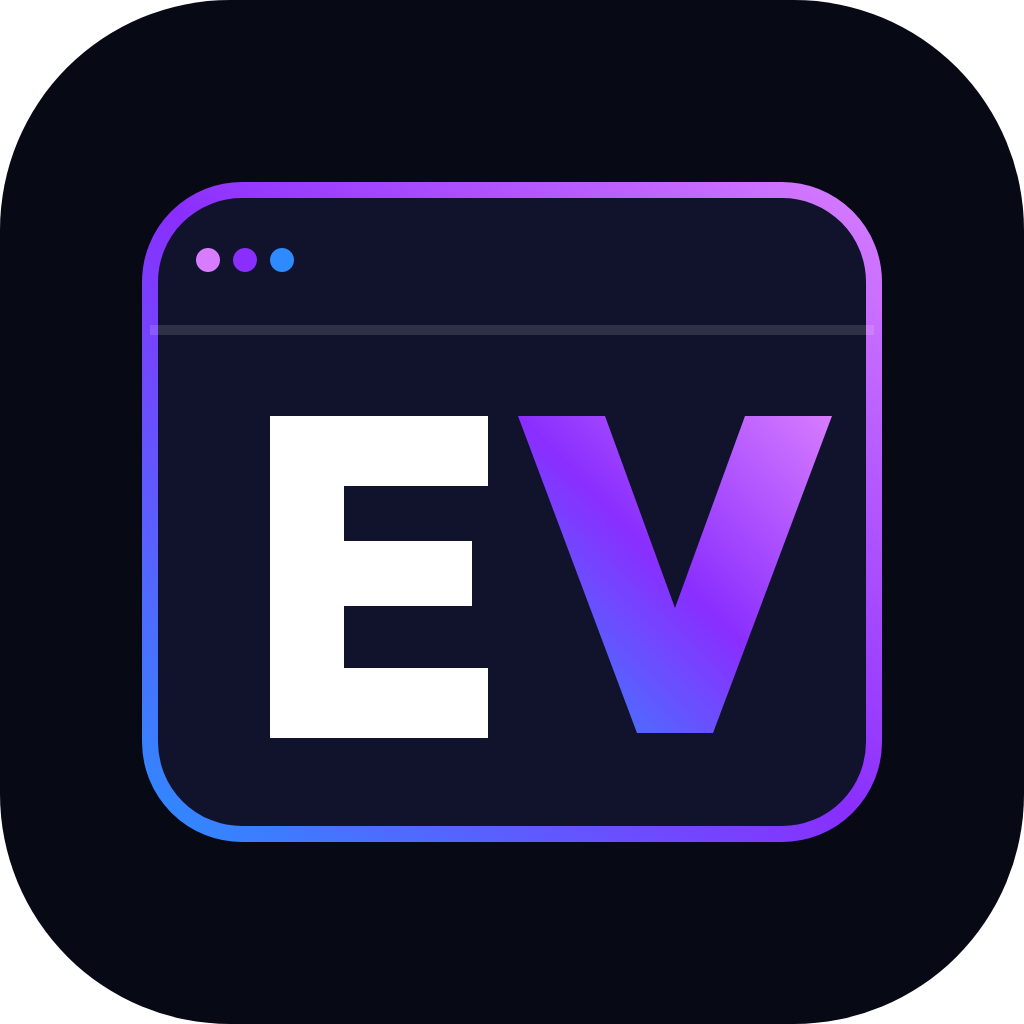
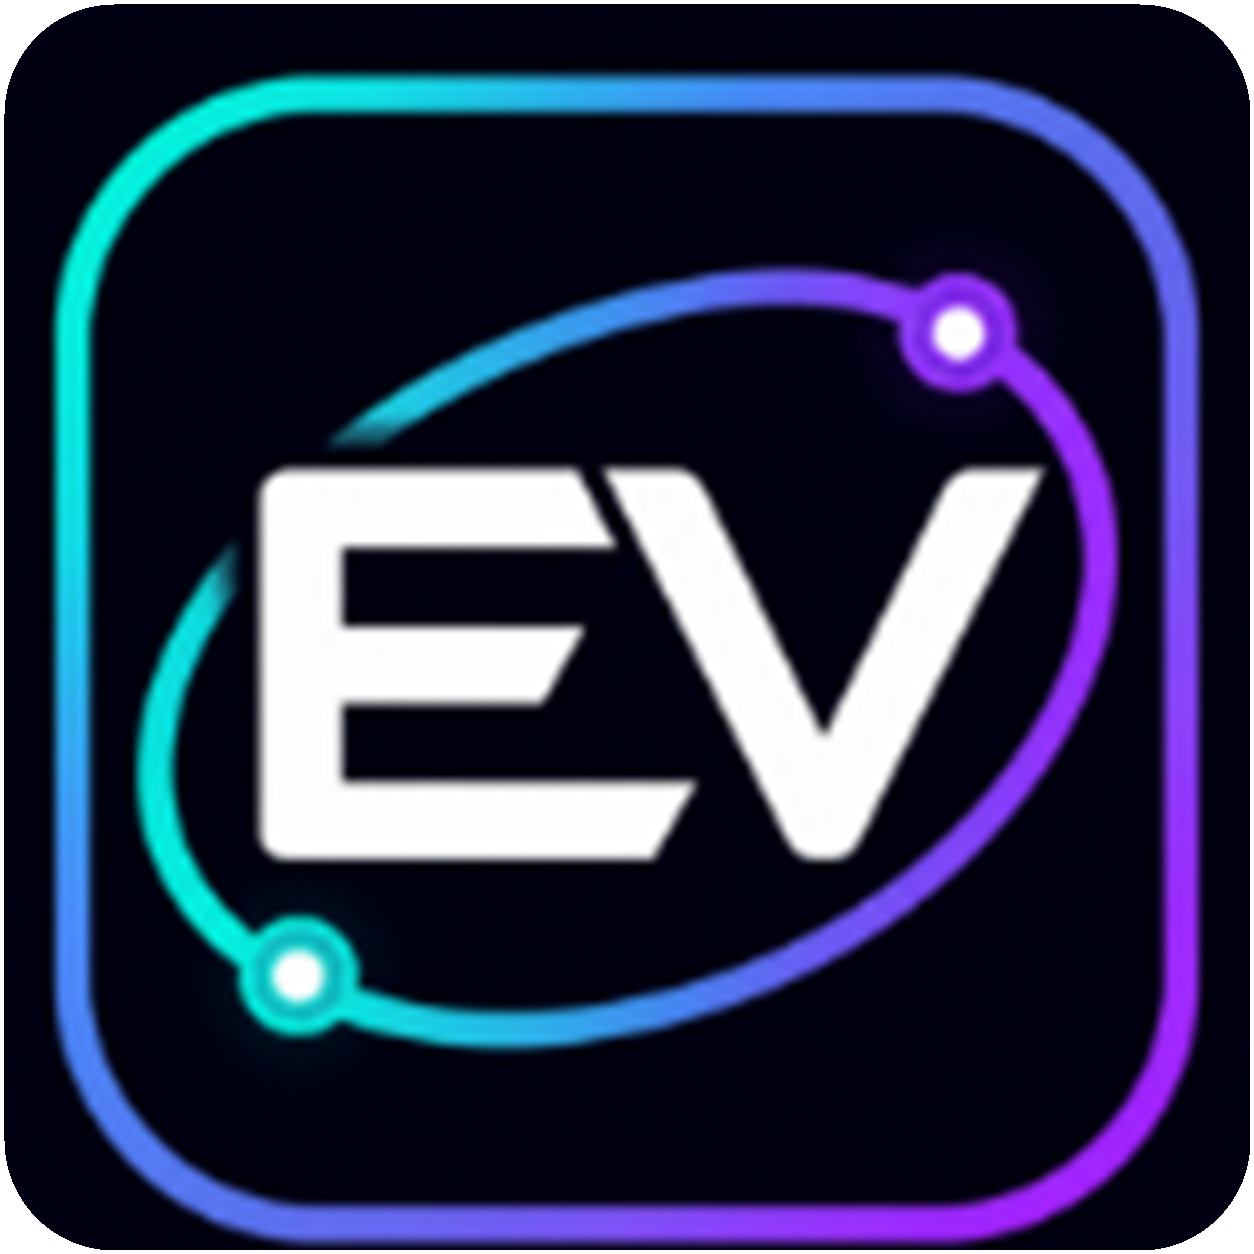
Rediseño móvil EVOLUM e icono final

diff --git a/mobile/App.tsx b/mobile/App.tsx
@@ -1372,10 +1372,26 @@ function EvolumApp() {
     return (
       <SafeAreaView style={styles.loginScreen}>
         <StatusBar style={themeMode === "nexo" ? "light" : "dark"} />
+        <KeyboardAvoidingView style={styles.loginKeyboard} behavior={Platform.OS === "ios" ? "padding" : undefined}>
+        <ScrollView contentContainerStyle={styles.loginLanding} keyboardShouldPersistTaps="handled" showsVerticalScrollIndicator={false}>
+          <View style={styles.loginBrandPanel}>
+            <View style={styles.loginBrandHeader}>
+              <Image source={evolumAppIcon} style={styles.loginBrandLogo} resizeMode="contain" />
+              <View><Text style={styles.loginBrandName}>EVOLUM OS</Text><Text style={styles.loginBrandSub}>El Sistema Operativo para Empresas</Text></View>
+            </View>
+            <Text style={styles.loginHeroEyebrow}>OPERACION EN UN SOLO LUGAR</Text>
+            <Text style={styles.loginHeroTitle}>Haz crecer tu empresa.{"\n"}Nosotros nos encargamos del resto.</Text>
+            <Text style={styles.loginHeroText}>Centraliza clientes, procesos, documentos, automatizaciones y decisiones para que tu equipo avance con claridad.</Text>
+            <View style={styles.loginBenefits}>
+              {["Todo conectado", "Decisiones con contexto", "IA que trabaja contigo"].map((benefit) => <View key={benefit} style={styles.loginBenefitRow}><View style={styles.loginBenefitIcon}><Text style={styles.loginBenefitIconText}>+</Text></View><Text style={styles.loginBenefitText}>{benefit}</Text></View>)}
+            </View>
+            <Text style={styles.loginSecurity}>● Plataforma segura y preparada para crecer contigo.</Text>
+          </View>
         <View style={styles.loginCard}>
           <View style={styles.logoLarge}><Image source={evolumAppIcon} style={styles.logoLargeImage} resizeMode="contain" /></View>
-          <Text style={styles.loginTitle}>EVOLUM</Text>
-          <Text style={styles.loginSubtitle}>App movil para operacion, inbox y super admin.</Text>
+          <Text style={styles.loginFormEyebrow}>ACCESO SEGURO</Text>
+          <Text style={styles.loginTitle}>Entrar a la plataforma</Text>
+          <Text style={styles.loginSubtitle}>Ingresa tus credenciales para continuar tu operacion.</Text>
           <View style={styles.loginVersionRow}>
             <Text style={styles.loginVersionLabel}>Versión instalada</Text>
             <Text style={styles.loginVersionValue}>v{currentAppVersion}</Text>
@@ -1409,6 +1425,8 @@ function EvolumApp() {
           <Text style={styles.apiHint}>{API_BASE_URL}</Text>
           {!!connectionStatus && <Text style={styles.connectionStatus}>{connectionStatus}</Text>}
         </View>
+        </ScrollView>
+        </KeyboardAvoidingView>
       </SafeAreaView>
     );
   }
@@ -1416,6 +1434,14 @@ function EvolumApp() {
   return (
     <SafeAreaView style={styles.appShell}>
       <StatusBar style={themeMode === "nexo" ? "light" : "dark"} />
+      <MobileTopbar
+        session={session}
+        profile={profile}
+        screen={screen}
+        unreadNotifications={unreadNotifications}
+        onOpenMenu={() => setMenuOpen(true)}
+        onOpenNotifications={() => setScreen("notifications")}
+      />
       <SideNav
         items={visibleNav}
         active={screen}
@@ -1429,20 +1455,6 @@ function EvolumApp() {
         setMenuOpen(false);
         if (next === "admin") loadAdminTenants();
       }} />
-      {screen === "inbox" && (
-        <View style={styles.inboxTopContact}>
-          <View style={styles.avatarTiny}><Text style={styles.avatarText}>{initials(selectedConversation?.contact.name || selectedConversation?.contact.externalId)}</Text></View>
-          <View style={{ flex: 1 }}>
-            <Text style={styles.topContactName}>{selectedConversation?.contact.name || selectedConversation?.contact.externalId || "Inbox"}</Text>
-            <Text style={styles.topContactSub}>{selectedConversation ? `${selectedConversation.contact.channel} / ${selectedConversation.status} / ${selectedConversation.mode}` : "Selecciona una conversacion"}</Text>
-          </View>
-          <NotificationBell count={unreadNotifications} compact onPress={() => setScreen("notifications")} />
-          <TouchableOpacity style={styles.chatsButtonCompact} onPress={() => setChatDrawerOpen(true)}>
-            <Text style={styles.chatsButtonText}>CHATS</Text>
-          </TouchableOpacity>
-        </View>
-      )}
-      {screen !== "inbox" && <NotificationBell count={unreadNotifications} onPress={() => setScreen("notifications")} />}
       <View style={styles.contentShell}>
         {(networkState === "offline" || pendingOfflineSync > 0) && (
           <View style={[styles.offlineBanner, networkState === "offline" && styles.offlineBannerDisconnected]}>
@@ -1455,7 +1467,7 @@ function EvolumApp() {
           </View>
         )}
         {screen === "dashboard" && (
-          <DashboardScreen dashboard={dashboard} realtyIntelligence={realtyIntelligence} profile={profile} refreshing={refreshing} onRefresh={refreshCurrent} />
+          <DashboardScreen dashboard={dashboard} realtyIntelligence={realtyIntelligence} profile={profile} refreshing={refreshing} onRefresh={refreshCurrent} onNavigate={setScreen} />
         )}
         {screen === "finance" && <FinanceScreen overview={financeOverview} refreshing={refreshing} onRefresh={refreshCurrent} />}
         {screen === "inbox" && (
@@ -1499,7 +1511,69 @@ function EvolumApp() {
         {screen === "settings" && <PermissionsAndAlertsScreen notificationPermission={notificationPermission} photoPermission={photoPermission} themeMode={themeMode} onThemeChange={changeTheme} onEnableNotifications={registerForPushNotifications} onEnablePhotos={requestPhotoLibraryAccess} onOpenImports={() => setScreen("realtyLoads")} onRefresh={refreshPermissionStatus} />}
         {screen === "admin" && <AdminScreen tenants={adminTenants} onToggleModule={toggleTenantModule} onRefresh={loadAdminTenants} />}
       </View>
+      <MobileBottomNavigation
+        active={screen}
+        hasFinance={hasMobileModule(modules, "finance_analytics") || session.user.role === "SUPER_ADMIN"}
+        onChange={(next) => {
+          if (next === "settings") setMenuOpen(true);
+          else setScreen(next);
+        }}
+      />
     </SafeAreaView>
+  );
+}
+
+function MobileTopbar({
+  session,
+  profile,
+  screen,
+  unreadNotifications,
+  onOpenMenu,
+  onOpenNotifications
+}: {
+  session: SessionState;
+  profile: IndustryProfile;
+  screen: ScreenKey;
+  unreadNotifications: number;
+  onOpenMenu: () => void;
+  onOpenNotifications: () => void;
+}) {
+  const label = screen === "inbox" ? "Chat's" : navItems.find((item) => item.key === screen)?.label || "EVOLUM";
+  return (
+    <View style={styles.mobileTopbar}>
+      <TouchableOpacity style={styles.mobileBrand} onPress={onOpenMenu} accessibilityRole="button" accessibilityLabel="Abrir menú EVOLUM">
+        <Image source={evolumAppIcon} style={styles.mobileBrandLogo} resizeMode="contain" />
+        <View style={{ flex: 1 }}>
+          <Text style={styles.mobileBrandName}>EVOLUM OS</Text>
+          <Text style={styles.mobileBrandContext}>{profile.label} · {label}</Text>
+        </View>
+      </TouchableOpacity>
+      <View style={styles.mobileTopbarActions}>
+        <NotificationBell count={unreadNotifications} compact onPress={onOpenNotifications} />
+        <View style={styles.mobileUserBadge}><Text style={styles.mobileUserInitials}>{initials(session.user.name)}</Text></View>
+      </View>
+    </View>
+  );
+}
+
+function MobileBottomNavigation({ active, hasFinance, onChange }: { active: ScreenKey; hasFinance: boolean; onChange: (key: ScreenKey) => void }) {
+  const items: Array<{ key: ScreenKey; label: string; icon: string }> = [
+    { key: "dashboard", label: "Inicio", icon: "⌂" },
+    { key: "inbox", label: "Chat's", icon: "◌" },
+    hasFinance ? { key: "finance", label: "Finanzas", icon: "$" } : { key: "agenda", label: "Agenda", icon: "◷" },
+    { key: "notifications", label: "Alertas", icon: "♢" },
+    { key: "settings", label: "Más", icon: "☷" }
+  ];
+  return (
+    <View style={styles.mobileBottomNav}>
+      {items.map((item) => {
+        const isActive = active === item.key;
+        return <TouchableOpacity key={item.key} style={styles.mobileBottomItem} onPress={() => onChange(item.key)} accessibilityRole="button" accessibilityState={{ selected: isActive }}>
+          <View style={[styles.mobileBottomIcon, isActive && styles.mobileBottomIconActive]}><Text style={[styles.mobileBottomIconText, isActive && styles.mobileBottomIconTextActive]}>{item.icon}</Text></View>
+          <Text style={[styles.mobileBottomLabel, isActive && styles.mobileBottomLabelActive]}>{item.label}</Text>
+        </TouchableOpacity>;
+      })}
+    </View>
   );
 }
 
@@ -1579,12 +1653,6 @@ function SideNav({
   const menuWidth = Math.min(width - 16, 360);
   return (
     <>
-      {!open && (
-        <TouchableOpacity style={styles.floatingMenuButton} onPress={() => setOpen(true)}>
-          <Image source={evolumAppIcon} style={styles.sideLogoImage} resizeMode="contain" />
-        </TouchableOpacity>
-      )}
-
       {open && (
         <View style={styles.menuOverlay}>
           <View style={[styles.fullMenu, { width: menuWidth }]}>
@@ -1784,7 +1852,7 @@ function VerticalOperationsScreen({ profile }: { profile: IndustryProfile }) {
   const [records, setRecords] = useState<Record<string, IndustryRecord[]>>({});
   const [saving, setSaving] = useState(false);
   const entity = config.entities.find((item) => item.type === selected) || config.entities[0];
-  const input = { borderWidth: 1, borderColor: "#c9d6d1", borderRadius: 12, backgroundColor: "#fff", paddingHorizontal: 13, minHeight: 46, color: "#17131f" } as const;
+  const input = { borderWidth: 1, borderColor: colors.border, borderRadius: 12, backgroundColor: colors.panel2, paddingHorizontal: 13, minHeight: 46, color: colors.text } as const;
   const load = async () => {
     const response = await Promise.all(config.entities.map(async (item) => [item.type, await getIndustryRecords(item.type).catch(() => [])] as const));
     setRecords(Object.fromEntries(response));
@@ -1831,7 +1899,7 @@ function ShiftsScreen({ profile }: { profile: IndustryProfile }) {
       Alert.alert("Turno guardado", "La disponibilidad quedó registrada para la jornada."); await load();
     } catch (error) { Alert.alert("No se pudo guardar", error instanceof Error ? error.message : "Inténtalo nuevamente."); } finally { setSaving(false); }
   }
-  const input = { borderWidth: 1, borderColor: "#c9d6d1", borderRadius: 12, backgroundColor: "#fff", paddingHorizontal: 13, minHeight: 46, color: "#17131f" } as const;
+  const input = { borderWidth: 1, borderColor: colors.border, borderRadius: 12, backgroundColor: colors.panel2, paddingHorizontal: 13, minHeight: 46, color: colors.text } as const;
   return <ScrollView contentContainerStyle={[styles.screenContent, { backgroundColor: colors.bg, paddingBottom: 40, gap: 14 }]}>
     <View style={{ padding: 18, borderRadius: 22, backgroundColor: "#17131f", gap: 7 }}><Text style={{ color: "#61d8ed", fontWeight: "900", fontSize: 11, letterSpacing: 1.5 }}>DOTACIÓN Y DISPONIBILIDAD</Text><Text style={{ color: "#fff", fontWeight: "900", fontSize: 26 }}>{copy.title}</Text><Text style={{ color: "#c7c2d6", lineHeight: 20 }}>{copy.detail} Este módulo organiza al equipo; la Agenda mantiene las citas y reservas de clientes.</Text></View>
     <View style={{ padding: 16, borderRadius: 18, borderWidth: 1, borderColor: "#d2dbd7", backgroundColor: "#fff", gap: 10 }}><Text style={financeMobileTitle}>Nuevo turno</Text><TextInput placeholder="Persona" value={form.worker} onChangeText={(worker) => setForm((current) => ({ ...current, worker }))} style={input} /><TextInput placeholder={copy.role} value={form.role} onChangeText={(role) => setForm((current) => ({ ...current, role }))} style={input} /><TextInput placeholder="Fecha: AAAA-MM-DD" value={form.date} onChangeText={(date) => setForm((current) => ({ ...current, date }))} style={input} /><View style={{ flexDirection: "row", gap: 8 }}><TextInput placeholder="Inicio" value={form.startsAt} onChangeText={(startsAt) => setForm((current) => ({ ...current, startsAt }))} style={[input, { flex: 1 }]} /><TextInput placeholder="Fin" value={form.endsAt} onChangeText={(endsAt) => setForm((current) => ({ ...current, endsAt }))} style={[input, { flex: 1 }]} /></View><TextInput placeholder="Sucursal, box o estación" value={form.location} onChangeText={(location) => setForm((current) => ({ ...current, location }))} style={input} /><TouchableOpacity disabled={saving} onPress={save} style={{ alignSelf: "flex-start", paddingHorizontal: 16, paddingVertical: 12, borderRadius: 12, backgroundColor: "#0891b2" }}><Text style={financeMobileButton}>{saving ? "Guardando..." : "Guardar turno"}</Text></TouchableOpacity></View>
@@ -1839,7 +1907,7 @@ function ShiftsScreen({ profile }: { profile: IndustryProfile }) {
   </ScrollView>;
 }
 
-function DashboardScreen({ dashboard, realtyIntelligence, profile, refreshing, onRefresh }: { dashboard: CrmOperationalDashboard | null; realtyIntelligence: RealtyIntelligence | null; profile: IndustryProfile; refreshing: boolean; onRefresh: () => void }) {
+function DashboardScreen({ dashboard, realtyIntelligence, profile, refreshing, onRefresh, onNavigate }: { dashboard: CrmOperationalDashboard | null; realtyIntelligence: RealtyIntelligence | null; profile: IndustryProfile; refreshing: boolean; onRefresh: () => void; onNavigate: (screen: ScreenKey) => void }) {
   const [downloadingReport, setDownloadingReport] = useState(false);
 
   async function downloadReport() {
@@ -1863,18 +1931,25 @@ function DashboardScreen({ dashboard, realtyIntelligence, profile, refreshing, o
 
   return (
     <ScrollView refreshControl={<RefreshControl refreshing={refreshing} onRefresh={onRefresh} tintColor={colors.purple2} />} contentContainerStyle={styles.screenContent}>
-      <Text style={styles.eyebrow}>Dashboard</Text>
-      <Text style={styles.screenTitle}>{profile.dashboardTitle}</Text>
-      <Text style={styles.screenSubtitle}>{profile.primaryEntity}, ventas, reservas y actividad en tiempo real.</Text>
+      <View style={styles.dashboardHero}>
+        <Text style={styles.dashboardHeroEyebrow}>OPERACION EN UN SOLO LUGAR</Text>
+        <Text style={styles.dashboardHeroTitle}>{profile.dashboardTitle}</Text>
+        <Text style={styles.dashboardHeroText}>{profile.primaryEntity}, ventas, reservas y actividad en tiempo real.</Text>
+        <View style={styles.dashboardHeroStatus}><View style={styles.dashboardHeroDot} /><Text style={styles.dashboardHeroStatusText}>Operacion conectada</Text></View>
+      </View>
+      <View style={styles.quickActionRow}>
+        <TouchableOpacity style={styles.quickAction} onPress={() => onNavigate("inbox")}><Text style={styles.quickActionIcon}>○</Text><Text style={styles.quickActionText}>Chat's</Text></TouchableOpacity>
+        <TouchableOpacity style={styles.quickAction} onPress={() => onNavigate("agenda")}><Text style={styles.quickActionIcon}>+</Text><Text style={styles.quickActionText}>{profile.bookingLabel}</Text></TouchableOpacity>
+        <TouchableOpacity style={styles.quickAction} onPress={() => onNavigate("finance")}><Text style={styles.quickActionIcon}>$</Text><Text style={styles.quickActionText}>Finanzas</Text></TouchableOpacity>
+        <TouchableOpacity style={styles.quickAction} onPress={downloadReport} disabled={downloadingReport}><Text style={styles.quickActionIcon}>↓</Text><Text style={styles.quickActionText}>Reporte</Text></TouchableOpacity>
+      </View>
       <View style={styles.kpiGrid}>
         <Kpi label="Leads" value={dashboard?.kpis.leads ?? 0} detail={`${dashboard?.kpis.hotLeads ?? 0} calientes`} />
         <Kpi label="Chats" value={dashboard?.kpis.conversations ?? 0} detail="activos" />
         <Kpi label={profile.bookingLabel} value={dashboard?.kpis.bookingsConfirmed ?? 0} detail={`${dashboard?.kpis.bookingsPending ?? 0} pendientes`} />
         <Kpi label="Revenue" value={money(dashboard?.revenue.paid)} detail={`${money(dashboard?.revenue.pending)} pendiente`} />
       </View>
-      <TouchableOpacity style={styles.primaryButton} onPress={downloadReport} disabled={downloadingReport}>
-        <Text style={styles.primaryButtonText}>{downloadingReport ? "Preparando reporte..." : "Descargar reporte ejecutivo PDF"}</Text>
-      </TouchableOpacity>
+      <TouchableOpacity style={styles.primaryButton} onPress={downloadReport} disabled={downloadingReport}><Text style={styles.primaryButtonText}>{downloadingReport ? "Preparando reporte..." : "Descargar reporte ejecutivo PDF"}</Text></TouchableOpacity>
       <Panel title="Estado comercial">
         <View style={styles.compactMetrics}>
           <Kpi label="Listos cierre" value={dashboard?.kpis.readyToClose ?? 0} detail={`${dashboard?.kpis.averageCloseScore ?? 0}% score IA`} />
@@ -4050,14 +4125,37 @@ function createStyles() {
   },
   loginScreen: {
     flex: 1,
-    backgroundColor: colors.bg,
-    justifyContent: "center",
-    padding: 22
+    backgroundColor: colors.bg
   },
+  loginKeyboard: { flex: 1 },
+  loginLanding: { flexGrow: 1, justifyContent: "center", padding: 14, gap: 0 },
+  loginBrandPanel: {
+    minHeight: 350,
+    borderTopLeftRadius: 28,
+    borderTopRightRadius: 28,
+    padding: 26,
+    gap: 18,
+    backgroundColor: colors.hero,
+    overflow: "hidden"
+  },
+  loginBrandHeader: { flexDirection: "row", alignItems: "center", gap: 10, marginBottom: 22 },
+  loginBrandLogo: { width: 52, height: 52, borderRadius: 18 },
+  loginBrandName: { color: colors.heroText, fontSize: 17, fontWeight: "900", letterSpacing: 1.2 },
+  loginBrandSub: { color: colors.heroMuted, fontSize: 10, marginTop: 3 },
+  loginHeroEyebrow: { color: colors.cyan, fontSize: 11, fontWeight: "900", letterSpacing: 1.7 },
+  loginHeroTitle: { color: colors.heroText, fontSize: 33, fontWeight: "900", lineHeight: 39, letterSpacing: -0.5 },
+  loginHeroText: { color: colors.heroMuted, fontSize: 14, lineHeight: 21, maxWidth: 410 },
+  loginBenefits: { gap: 10, marginTop: 4 },
+  loginBenefitRow: { flexDirection: "row", alignItems: "center", gap: 9 },
+  loginBenefitIcon: { width: 21, height: 21, borderRadius: 11, backgroundColor: "rgba(16, 212, 202, 0.18)", borderWidth: 1, borderColor: colors.cyan, alignItems: "center", justifyContent: "center" },
+  loginBenefitIconText: { color: colors.cyan, fontSize: 14, lineHeight: 16, fontWeight: "900" },
+  loginBenefitText: { color: colors.heroText, fontSize: 13, fontWeight: "800" },
+  loginSecurity: { color: colors.heroMuted, fontSize: 11, marginTop: "auto" },
   loginCard: {
     borderWidth: 1,
     borderColor: colors.border,
-    borderRadius: 28,
+    borderBottomLeftRadius: 28,
+    borderBottomRightRadius: 28,
     backgroundColor: colors.panel,
     padding: 24,
     gap: 14,
@@ -4075,7 +4173,8 @@ function createStyles() {
     borderColor: colors.borderStrong
   },
   logoLargeImage: { width: "100%", height: "100%", borderRadius: 22 },
-  loginTitle: { color: colors.text, fontSize: 34, fontWeight: "900" },
+  loginTitle: { color: colors.text, fontSize: 28, fontWeight: "900" },
+  loginFormEyebrow: { color: colors.cyan, fontSize: 10, fontWeight: "900", letterSpacing: 1.6 },
   loginSubtitle: { color: colors.muted, lineHeight: 20 },
   loginVersionRow: { flexDirection: "row", alignItems: "center", justifyContent: "space-between", paddingVertical: 8, borderTopWidth: 1, borderBottomWidth: 1, borderColor: "rgba(168,85,247,0.2)" },
   loginVersionLabel: { color: colors.muted, fontSize: 12, fontWeight: "700" },
@@ -4105,7 +4204,7 @@ function createStyles() {
     alignItems: "center",
     justifyContent: "center"
   },
-  primaryButtonText: { color: colors.text, fontWeight: "900" },
+  primaryButtonText: { color: colors.heroText, fontWeight: "900" },
   secondaryButton: {
     minHeight: 46,
     borderRadius: 16,
@@ -4123,6 +4222,54 @@ function createStyles() {
     backgroundColor: colors.bg,
     paddingTop: Platform.OS === "android" ? RNStatusBar.currentHeight || 0 : 0
   },
+  mobileTopbar: {
+    position: "absolute",
+    top: 0,
+    left: 0,
+    right: 0,
+    zIndex: 30,
+    minHeight: 76,
+    paddingHorizontal: 14,
+    paddingVertical: 10,
+    flexDirection: "row",
+    alignItems: "center",
+    justifyContent: "space-between",
+    gap: 10,
+    backgroundColor: colors.bg,
+    borderBottomWidth: 1,
+    borderBottomColor: colors.border
+  },
+  mobileBrand: { flex: 1, minWidth: 0, flexDirection: "row", alignItems: "center", gap: 9 },
+  mobileBrandLogo: { width: 42, height: 42, borderRadius: 14 },
+  mobileBrandName: { color: colors.text, fontSize: 14, fontWeight: "900", letterSpacing: 0.9 },
+  mobileBrandContext: { color: colors.muted, fontSize: 10, marginTop: 2 } ,
+  mobileTopbarActions: { flexDirection: "row", alignItems: "center", gap: 8 },
+  mobileUserBadge: { width: 38, height: 38, borderRadius: 19, backgroundColor: colors.purple, alignItems: "center", justifyContent: "center" },
+  mobileUserInitials: { color: colors.heroText, fontSize: 12, fontWeight: "900" },
+  mobileBottomNav: {
+    position: "absolute",
+    left: 0,
+    right: 0,
+    bottom: 0,
+    zIndex: 31,
+    minHeight: 70,
+    paddingHorizontal: 8,
+    paddingTop: 7,
+    paddingBottom: Platform.OS === "ios" ? 10 : 7,
+    flexDirection: "row",
+    justifyContent: "space-between",
+    backgroundColor: colors.panel,
+    borderTopWidth: 1,
+    borderTopColor: colors.border,
+    ...shadow
+  },
+  mobileBottomItem: { flex: 1, minWidth: 0, alignItems: "center", gap: 3, paddingVertical: 2 },
+  mobileBottomIcon: { width: 31, height: 27, borderRadius: 10, alignItems: "center", justifyContent: "center" },
+  mobileBottomIconActive: { backgroundColor: colors.panel3 },
+  mobileBottomIconText: { color: colors.muted, fontSize: 17, fontWeight: "900" },
+  mobileBottomIconTextActive: { color: colors.cyan },
+  mobileBottomLabel: { color: colors.muted, fontSize: 9, fontWeight: "700" },
+  mobileBottomLabelActive: { color: colors.text, fontWeight: "900" },
   floatingMenuButton: {
     position: "absolute",
     top: Platform.OS === "android" ? 34 : 22,
@@ -4292,7 +4439,7 @@ function createStyles() {
   topContactName: { color: colors.text, fontWeight: "900", fontSize: 15 },
   topContactSub: { color: colors.muted, fontSize: 10 },
   chatsButtonCompact: { backgroundColor: colors.purple, borderRadius: 13, minHeight: 38, paddingHorizontal: 10, justifyContent: "center" },
-  contentShell: { flex: 1, paddingHorizontal: 10, paddingTop: Platform.OS === "android" ? 98 : 86, paddingBottom: 8 },
+  contentShell: { flex: 1, paddingHorizontal: 12, paddingTop: 86, paddingBottom: 76 },
   header: {
     minHeight: 74,
     borderWidth: 1,
@@ -4313,7 +4460,7 @@ function createStyles() {
   accountPillText: { color: colors.text, fontWeight: "900" },
   logoutMini: { borderWidth: 1, borderColor: colors.border, borderRadius: 999, paddingHorizontal: 12, minHeight: 40, justifyContent: "center" },
   logoutMiniText: { color: colors.text, fontWeight: "800" },
-  screenContent: { paddingTop: 6, paddingBottom: 42, gap: 14 },
+  screenContent: { paddingTop: 8, paddingBottom: 116, gap: 14 },
   notificationActions: { flexDirection: "row", gap: 10, alignItems: "center" },
   notificationCard: {
     flexDirection: "row",
@@ -4332,6 +4479,17 @@ function createStyles() {
   eyebrow: { color: colors.purple2, fontSize: 12, fontWeight: "900", letterSpacing: 1.8, textTransform: "uppercase" },
   screenTitle: { color: colors.text, fontSize: 30, fontWeight: "900" },
   screenSubtitle: { color: colors.muted, lineHeight: 20 },
+  dashboardHero: { borderRadius: 24, padding: 20, gap: 8, backgroundColor: colors.hero, overflow: "hidden" },
+  dashboardHeroEyebrow: { color: colors.cyan, fontSize: 10, fontWeight: "900", letterSpacing: 1.6 },
+  dashboardHeroTitle: { color: colors.heroText, fontSize: 28, lineHeight: 34, fontWeight: "900" },
+  dashboardHeroText: { color: colors.heroMuted, fontSize: 13, lineHeight: 19, maxWidth: "88%" },
+  dashboardHeroStatus: { marginTop: 8, flexDirection: "row", alignItems: "center", gap: 7 },
+  dashboardHeroDot: { width: 8, height: 8, borderRadius: 4, backgroundColor: colors.cyan },
+  dashboardHeroStatusText: { color: colors.heroMuted, fontSize: 11, fontWeight: "800" },
+  quickActionRow: { flexDirection: "row", gap: 8 },
+  quickAction: { flex: 1, minHeight: 66, borderRadius: 17, padding: 9, justifyContent: "space-between", borderWidth: 1, borderColor: colors.border, backgroundColor: colors.panel },
+  quickActionIcon: { color: colors.cyan, fontSize: 18, lineHeight: 20, fontWeight: "900" },
+  quickActionText: { color: colors.text, fontSize: 10, fontWeight: "900" },
   kpiGrid: { flexDirection: "row", flexWrap: "wrap", gap: 10 },
   kpiCard: {
     width: "47.8%",
